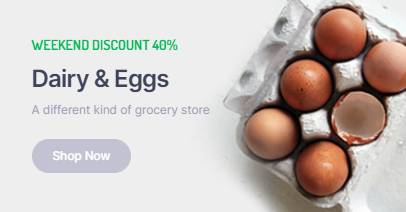
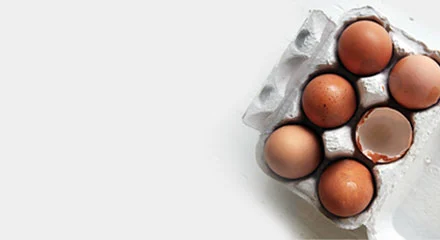
update

diff --git a/src/Pages/Home/index.js b/src/Pages/Home/index.js
@@ -12,10 +12,10 @@ import "slick-carousel/slick/slick.css";
 import "slick-carousel/slick/slick-theme.css";
 import 'swiper/css';
 import 'swiper/css/navigation';
-import {Navigation} from 'swiper/modules';
+import { Navigation } from 'swiper/modules';
 import ProductItem from "../../Components/ProductItem";
 
-const Home = ()=>{
+const Home = () => {
 
     var productSliderOptions = {
         dots: true,
@@ -25,11 +25,11 @@ const Home = ()=>{
         slidesToScroll: 1,
         arrows: true,
     };
-    return(
+    return (
         <>
-            <HomeBanner/>
+            <HomeBanner />
 
-            <HomeCat/>
+            <HomeCat />
 
             <section className="homeProducts">
                 <div className="container">
@@ -54,6 +54,7 @@ const Home = ()=>{
                                     <button className="shopNowBtn">Shop Now →</button>
                                 </div>
                             </div>
+
                         </div>
                         <div className="col-md-9 productRow">
                             <div className="d-flex align-items-center">
@@ -61,29 +62,29 @@ const Home = ()=>{
                                     <h3 className="mb-0 hd">BEST SELLERS</h3>
                                     <p className="text-light text-sml mb-0">Do not miss the current offers untill the end of March.</p>
                                 </div>
-                                <Button className="viewAllBtn ml-auto">View All<IoIosArrowRoundForward/></Button>
-                            </div>  
+                                <Button className="viewAllBtn ml-auto">View All<IoIosArrowRoundForward /></Button>
+                            </div>
                             <div className="product_row w-100 mt-4">
-                                <Swiper slidesPerView={4} spaceBetween={0} pagination={{ clickable: true,}} modules={[Navigation]} className="mySwiper">
+                                <Swiper slidesPerView={4} spaceBetween={0} pagination={{ clickable: true, }} modules={[Navigation]} className="mySwiper">
                                     <SwiperSlide>
-                                        <ProductItem/>
+                                        <ProductItem />
                                     </SwiperSlide>
                                     <SwiperSlide>
-                                        <ProductItem/>
+                                        <ProductItem />
                                     </SwiperSlide>
                                     <SwiperSlide>
-                                        <ProductItem/>
+                                        <ProductItem />
                                     </SwiperSlide>
                                     <SwiperSlide>
-                                        <ProductItem/>
+                                        <ProductItem />
                                     </SwiperSlide>
                                     <SwiperSlide>
-                                        <ProductItem/>
+                                        <ProductItem />
                                     </SwiperSlide>
                                     <SwiperSlide>
-                                        <ProductItem/>
+                                        <ProductItem />
                                     </SwiperSlide>
-                                </Swiper>  
+                                </Swiper>
                             </div>
 
                             <div className="d-flex align-items-center mt-5">
@@ -91,8 +92,8 @@ const Home = ()=>{
                                     <h3 className="mb-0 hd">NEW PRODUCTS</h3>
                                     <p className="text-light text-sml mb-0">New products with updated stocks.</p>
                                 </div>
-                                <Button className="viewAllBtn ml-auto">View All<IoIosArrowRoundForward/></Button>
-                            </div>  
+                                <Button className="viewAllBtn ml-auto">View All<IoIosArrowRoundForward /></Button>
+                            </div>
                             <div className="product_row productRow2 w-100 mt-4 d-flex">
                                 <ProductItem />
                                 <ProductItem />
@@ -102,6 +103,15 @@ const Home = ()=>{
                                 <ProductItem />
                                 <ProductItem />
                                 <ProductItem />
+                            </div>
+
+                            <div className="d-flex mt-4 mb-5 bannerSec">
+                                <div className="banner">
+                                    <img src={banner4} alt="E-commerce Banner" />
+                                </div>
+                                <div className="banner">
+                                    <img src={banner5} alt="E-commerce Banner" />
+                                </div>
                             </div>
                         </div>
                     </div>

diff --git a/src/App.css b/src/App.css
@@ -709,3 +709,6 @@ p {
   overflow: hidden;
   border-right: 1px solid rgba(0, 0, 0, 0.1) !important;
 }
+.bannerSec{
+  gap: 15px;
+}
